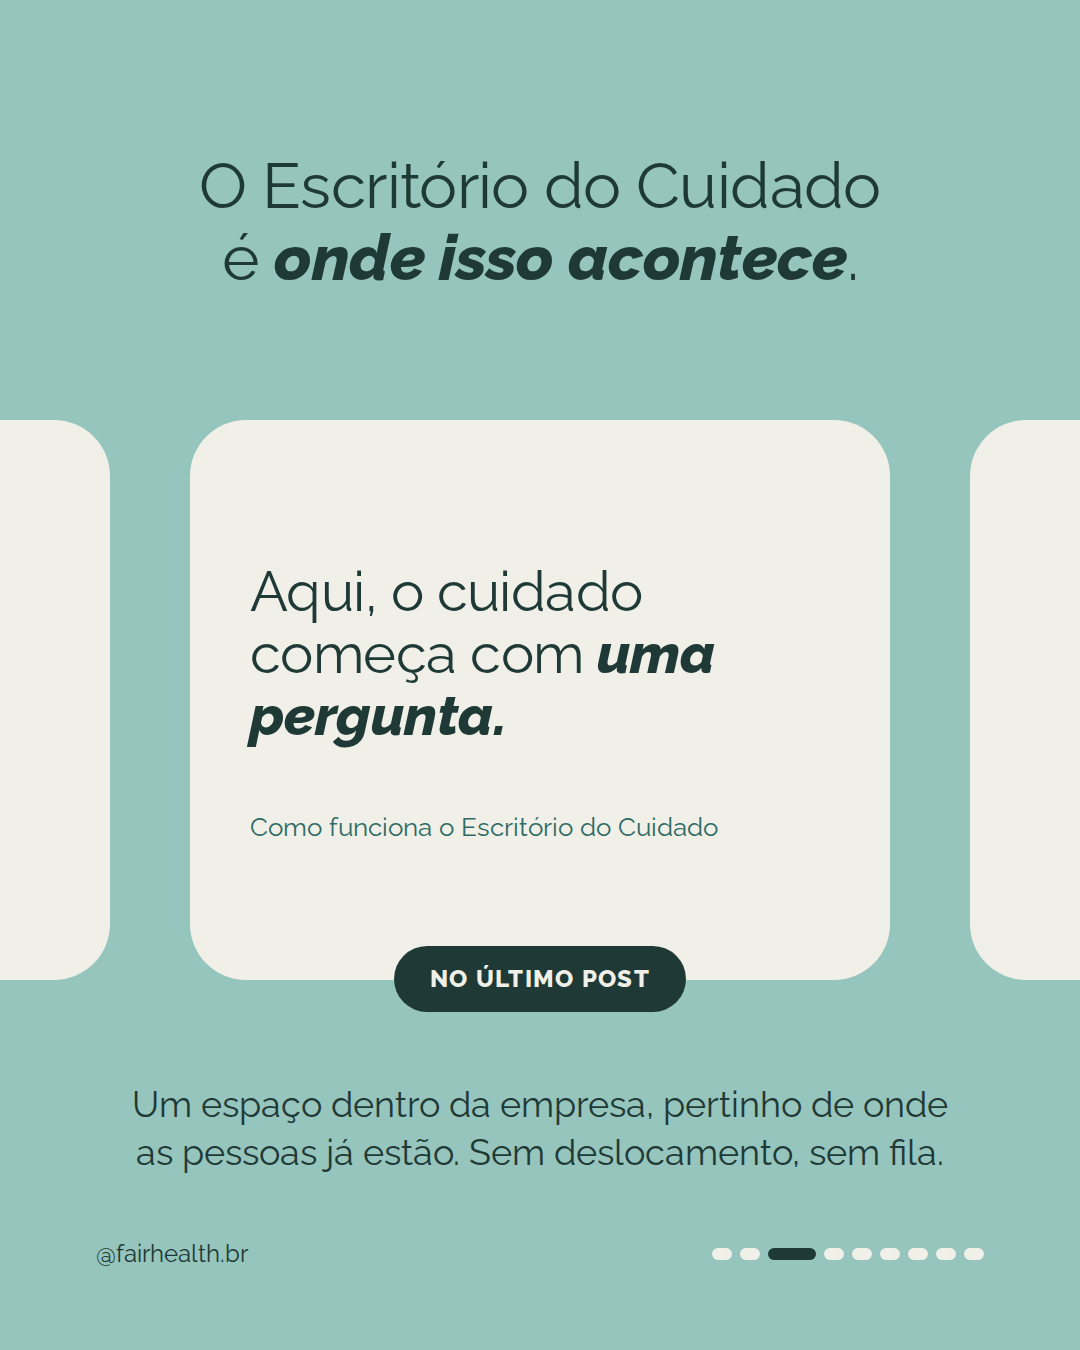
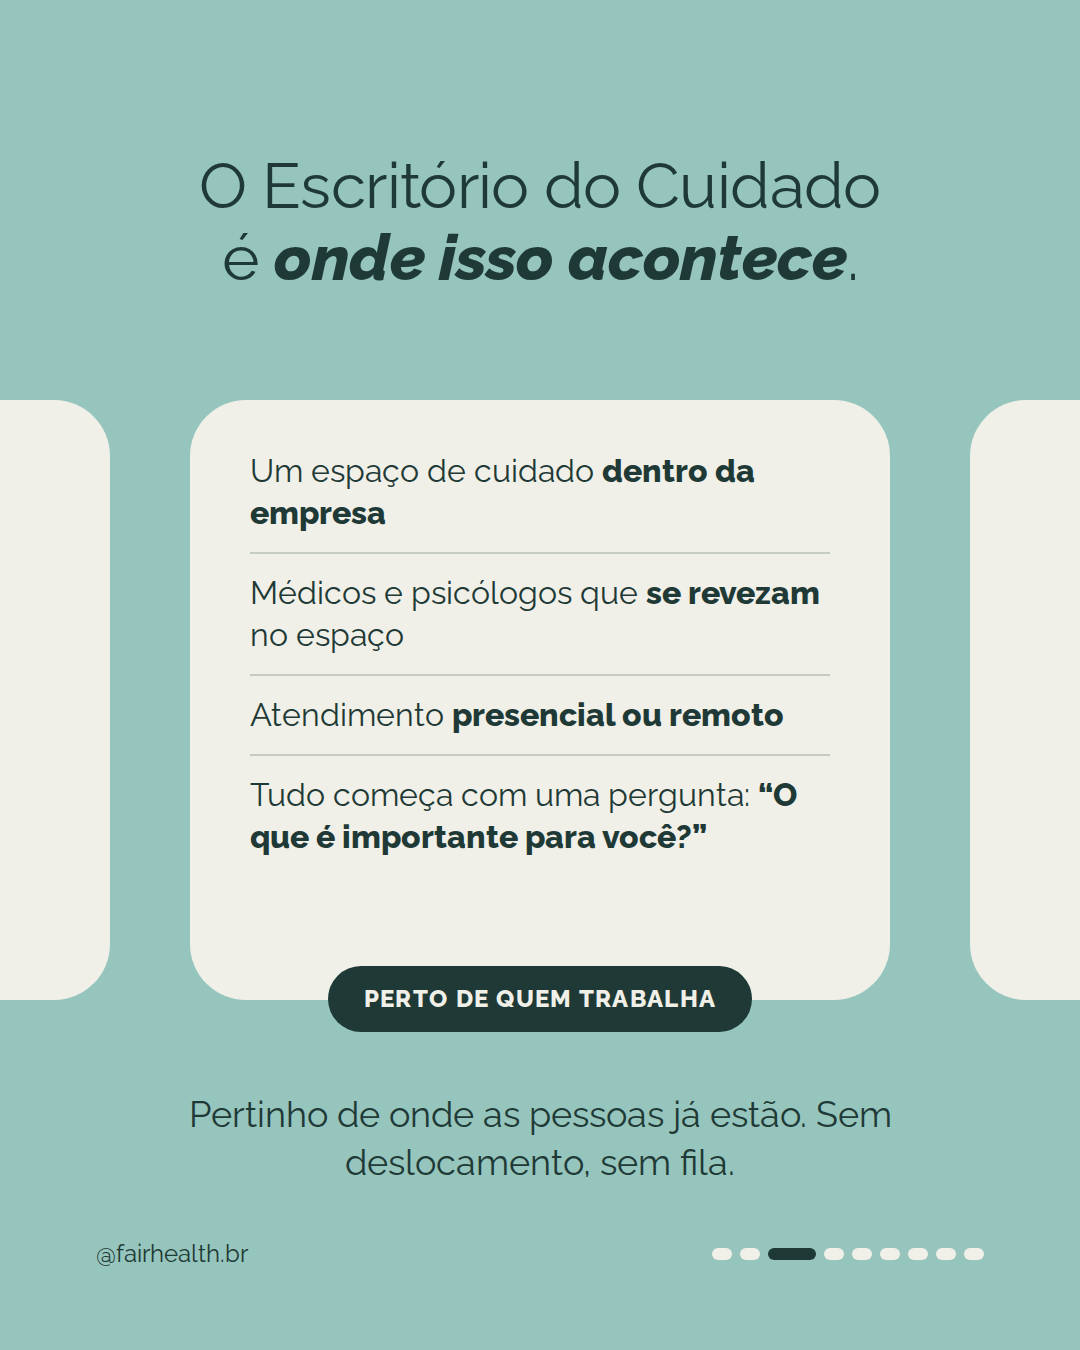
O que é a fairhealth: slide 3 explica o Escritório e slide 7 mostra o ecossistema
Pedido da Nina: o slide 3 não deve só citar o post anterior; agora explica o
Escritório do Cuidado (espaço na empresa, médicos e psicólogos que se
revezam, presencial ou remoto, a pergunta). "Medir, cuidar, conscientizar,
comprovar" são os passos das quatro empresas da fairjob, não um método da
fairhealth: o slide 7 vira "A fairhealth é o cuidar", com as quatro
empresas e a fairhealth em destaque. Legenda e voice.md corrigidos.

Claude-Session: https://claude.ai/code/session_011JWhGAkUjJPXHMtv46EUoM

diff --git a/instagram/posts/o-que-e-a-fairhealth/slides.html b/instagram/posts/o-que-e-a-fairhealth/slides.html
@@ -42,6 +42,19 @@ svg.cheia{left:0;top:0;width:1080px;height:1350px}
 .passo .n{font-size:24px;line-height:56px;font-weight:800;letter-spacing:.16em;color:var(--vlogo);grid-row:span 2}
 .passo .w{font-size:52px;line-height:56px;font-weight:800;letter-spacing:-0.01em}
 .passo .d{font-size:32px;line-height:42px;margin-top:6px}
+/* cartão do slide 3: lista curta com fios */
+.cartao p{font-size:32px;line-height:42px;padding:18px 0;border-top:2px solid rgba(31,58,54,.2)}
+.cartao p:first-child{border-top:0;padding-top:0}
+.cartao b{font-weight:800}
+/* ecossistema: quatro passos, a fairhealth em destaque */
+.eco{left:96px;width:888px;height:140px;display:flex;align-items:center;gap:28px;padding:0 32px;border-top:2px solid rgba(31,58,54,.28)}
+.eco .n{font-size:24px;line-height:32px;font-weight:800;letter-spacing:.16em;color:var(--vlogo);width:48px;flex:none}
+.eco .w{font-size:52px;line-height:56px;font-weight:800;letter-spacing:-0.01em;width:420px;flex:none}
+.eco .m{font-size:32px;line-height:40px}
+.eco.on{height:164px;background:var(--tif);border-radius:24px;border-top:0;flex-wrap:wrap;align-content:center;row-gap:4px}
+.eco.on .d{flex-basis:100%;padding-left:76px;font-size:26px;line-height:32px;color:var(--vlogo)}
+.eco.on .m{font-weight:800}
+.eco.on .n{color:var(--verde)}
 .pilula{border-radius:999px;font-weight:800;letter-spacing:.08em;text-transform:uppercase;white-space:nowrap}
 .num{font-weight:800;letter-spacing:-0.05em;line-height:.78;white-space:nowrap}
 .num .u2{letter-spacing:-0.02em;margin-left:18px}
@@ -66,16 +79,20 @@ svg.cheia{left:0;top:0;width:1080px;height:1350px}
   <div class="pag"><i></i><i class="on"></i><i></i><i></i><i></i><i></i><i></i><i></i><i></i></div>
 </section>
 
-<!-- 3 · tiffany: a ponte com o último post, em cartões que espiam nas bordas -->
+<!-- 3 · tiffany: o que é o Escritório do Cuidado, num cartão com os cartões vizinhos espiando nas bordas -->
 <section class="slide t" id="s03">
   <p class="tit" style="left:0;top:150px;width:1080px;text-align:center;font-size:64px;line-height:72px">O Escritório do Cuidado<br>é <span class="k">onde isso acontece</span>.</p>
-  <div style="left:-560px;top:420px;width:670px;height:560px;background:var(--creme);border-radius:56px"></div>
-  <div style="left:970px;top:420px;width:670px;height:560px;background:var(--creme);border-radius:56px"></div>
-  <div style="left:190px;top:420px;width:700px;height:560px;background:var(--creme);border-radius:56px"></div>
-  <p style="left:250px;top:560px;width:580px;font-size:56px;line-height:62px;letter-spacing:-0.01em">Aqui, o cuidado começa com <span class="k">uma pergunta.</span></p>
-  <p style="left:250px;top:810px;width:580px;font-size:26px;line-height:34px;color:var(--vlogo)">Como funciona o Escritório do Cuidado</p>
-  <p class="pilula" style="left:0;top:946px;width:1080px;text-align:center"><span style="display:inline-block;background:var(--verde);color:var(--creme);font-size:24px;line-height:30px;padding:18px 36px;border-radius:999px">No último post</span></p>
-  <p class="corpo" style="left:120px;top:1080px;width:840px;text-align:center">Um espaço dentro da empresa, pertinho de onde as pessoas já estão. Sem deslocamento, sem fila.</p>
+  <div style="left:-560px;top:400px;width:670px;height:600px;background:var(--creme);border-radius:56px"></div>
+  <div style="left:970px;top:400px;width:670px;height:600px;background:var(--creme);border-radius:56px"></div>
+  <div style="left:190px;top:400px;width:700px;height:600px;background:var(--creme);border-radius:56px"></div>
+  <div class="cartao" style="left:250px;top:450px;width:580px">
+    <p>Um espaço de cuidado <b>dentro da empresa</b></p>
+    <p>Médicos e psicólogos que <b>se revezam</b> no espaço</p>
+    <p>Atendimento <b>presencial ou remoto</b></p>
+    <p>Tudo começa com uma pergunta: <b>“O que é importante para você?”</b></p>
+  </div>
+  <p class="pilula" style="left:0;top:966px;width:1080px;text-align:center"><span style="display:inline-block;background:var(--verde);color:var(--creme);font-size:24px;line-height:30px;padding:18px 36px;border-radius:999px">Perto de quem trabalha</span></p>
+  <p class="corpo" style="left:120px;top:1090px;width:840px;text-align:center">Pertinho de onde as pessoas já estão. Sem deslocamento, sem fila.</p>
   <p class="handle">@fairhealth.br</p>
   <div class="pag"><i></i><i></i><i class="on"></i><i></i><i></i><i></i><i></i><i></i><i></i></div>
 </section>
@@ -124,14 +141,15 @@ svg.cheia{left:0;top:0;width:1080px;height:1350px}
   <div class="pag"><i></i><i></i><i></i><i></i><i></i><i class="on"></i><i></i><i></i><i></i></div>
 </section>
 
-<!-- 7 · creme: o método -->
+<!-- 7 · creme: o lugar da fairhealth no ecossistema fairjob (os quatro passos são as quatro empresas) -->
 <section class="slide c" id="s07">
-  <p class="rot">Como a gente trabalha</p>
-  <p class="tit" style="left:96px;top:200px;width:888px">Cuidado <span class="k">com método</span>.</p>
-  <div class="passo" style="top:370px"><span class="n">01</span><span class="w">Medir</span><span class="d">para entender de onde cada pessoa parte</span></div>
-  <div class="passo" style="top:545px"><span class="n">02</span><span class="w">Cuidar</span><span class="d">com a Medicina do Estilo de Vida</span></div>
-  <div class="passo" style="top:720px"><span class="n">03</span><span class="w">Conscientizar</span><span class="d">hábito muda quando se entende o porquê</span></div>
-  <div class="passo" style="top:895px;border-bottom:2px solid rgba(31,58,54,.28)"><span class="n">04</span><span class="w">Comprovar</span><span class="d">o RH decide com evidência, não com intenção</span></div>
+  <p class="rot">Ecossistema fairjob</p>
+  <p class="tit" style="left:96px;top:190px;width:888px">A fairhealth é o <span class="k">cuidar</span>.</p>
+  <p class="corpo" style="left:96px;top:300px;width:820px">Quatro empresas, quatro passos. Juntas, levam a empresa da intenção à evidência.</p>
+  <div class="eco" style="top:460px"><span class="n">01</span><span class="w">Medir</span><span class="m">fairdata</span></div>
+  <div class="eco on" style="top:620px"><span class="n">02</span><span class="w">Cuidar</span><span class="m">fairhealth</span><span class="d">o Escritório do Cuidado</span></div>
+  <div class="eco" style="top:800px"><span class="n">03</span><span class="w">Conscientizar</span><span class="m">fairedu</span></div>
+  <div class="eco" style="top:960px;border-bottom:2px solid rgba(31,58,54,.28)"><span class="n">04</span><span class="w">Comprovar</span><span class="m">fairtrust</span></div>
   <p class="handle">@fairhealth.br</p>
   <div class="pag"><i></i><i></i><i></i><i></i><i></i><i></i><i class="on"></i><i></i><i></i></div>
 </section>

diff --git a/instagram/posts/o-que-e-a-fairhealth/README.md b/instagram/posts/o-que-e-a-fairhealth/README.md
@@ -10,16 +10,19 @@ institucional. Público: RH e colaboradores.
 - **Visual:** v1 com o tiffany no detalhe (fundos verde, creme e tiffany alternados) e três elementos gráficos
   da aba nova do livro da marca: cartões espiando nas bordas (ponte com o post anterior), Venn com o encontro
   cheio e pessoas em pictograma.
+- **Correção de 11/10:** o slide 3 deixou de só citar o post anterior e passou a explicar o Escritório do
+  Cuidado. O slide 7 deixou de tratar "medir, cuidar, conscientizar, comprovar" como método da fairhealth:
+  são os quatro passos das quatro empresas da fairjob.
 
 | Slide | Fundo | Conteúdo |
 | --- | --- | --- |
 | 1 | verde | Capa: "O que é a fairhealth?" + ponte com o último post |
 | 2 | creme | Somos uma empresa de saúde corporativa (frase de quem somos) |
-| 3 | tiffany | O Escritório do Cuidado é onde isso acontece (cartão com a capa do post anterior) |
+| 3 | tiffany | O Escritório do Cuidado é onde isso acontece: espaço dentro da empresa, médicos e psicólogos que se revezam, presencial ou remoto, a pergunta (cartão central) |
 | 4 | verde | A gente trabalha no encontro (Venn: o que a empresa precisa × o que é importante para cada pessoa) |
 | 5 | creme | O que oferecemos para quem é cuidado |
 | 6 | tiffany | O que oferecemos para a empresa |
-| 7 | creme | Cuidado com método: medir, cuidar, conscientizar, comprovar |
+| 7 | creme | A fairhealth é o cuidar: os quatro passos do ecossistema fairjob (medir, cuidar, conscientizar, comprovar), um por empresa, com a fairhealth em destaque |
 | 8 | verde | Prova: 8 em cada 10 pessoas voltaram para mais de um atendimento |
 | 9 | creme | Logo, slogan e convite para falar pelo direct |
 
@@ -30,7 +33,7 @@ O Escritório do Cuidado você já conhece. Agora, o que é a fairhealth?
 
 No último post, mostramos como o cuidado começa: com uma conversa e uma pergunta, "O que é importante para você?". A fairhealth é quem está por trás desse espaço.
 
-Somos uma empresa de saúde corporativa, do ecossistema fairjob. Levamos médicos e psicólogos para dentro da empresa, para cuidar das pessoas antes que o adoecimento vire afastamento.
+Somos uma empresa de saúde corporativa e, no ecossistema fairjob, somos o cuidar. Levamos médicos e psicólogos para dentro da empresa, para cuidar das pessoas antes que o adoecimento vire afastamento.
 
 Para quem é cuidado, isso significa atendimento perto, sigilo e um plano que cabe na rotina real, montado nos pilares da Medicina do Estilo de Vida. Para a empresa, significa um espaço de cuidado montado ali dentro e relatórios do grupo, anonimizados, para o RH decidir com evidência.
 
@@ -59,3 +62,5 @@ reconhece chamadas em inglês, e a legenda tem uma só ("Fale com a gente pelo d
 - **NR-1:** "um aliado na prevenção dos riscos psicossociais", sem prometer conformidade.
 - **Prazo do programa:** o post não cita os 12 meses (prazo de acompanhamento pede aval).
 - **Pilares:** o post não diz quantos são, até a confirmação dos 6 pilares.
+- **[CONFIRMAR] Verbo de cada empresa no slide 7:** cuidar = fairhealth está na essência. Os outros foram
+  ligados pelo nome: medir = fairdata, conscientizar = fairedu, comprovar = fairtrust.

diff --git a/instagram/voice.md b/instagram/voice.md
@@ -47,7 +47,8 @@ português do Brasil.
   É uma voz de especialista que explica sem jargão, sem alarmismo e sem tom de
   coach.
 - **Palavras que usamos:** cuidado · Escritório do Cuidado · causa raiz ·
-  "medir, cuidar, conscientizar, comprovar" · evidência / "da intenção à
+  "medir, cuidar, conscientizar, comprovar" (os quatro passos das quatro empresas da
+  fairjob, não um método só da fairhealth; ver as decisões de 11/10) · evidência / "da intenção à
   evidência" · cuidado centrado na pessoa · menos barreira, mais adesão ·
   sinistralidade · risco psicossocial · NR-01 · Medicina do Estilo de Vida (MEV)
   · colaborador · prevenção
@@ -224,3 +225,12 @@ Estas regras valem por cima de qualquer trecho anterior deste arquivo.
 - **Medicina do Estilo de Vida: 6 pilares** (ACLM): alimentação, atividade física,
   sono, manejo do estresse, relacionamentos e evitar substâncias de risco. Sem
   espiritualidade. **[PENDENTE]** confirmar.
+
+## Decisões de 11/10: o ecossistema
+
+- **"Medir, cuidar, conscientizar, comprovar" são os quatro passos das quatro empresas da fairjob**
+  (fairdata, fairhealth, fairedu e fairtrust), não um método só da fairhealth. A fairhealth é o
+  **cuidar**. Nunca apresentar os quatro verbos como o jeito de trabalhar da fairhealth.
+- **[CONFIRMAR]** O verbo de cada empresa: cuidar = fairhealth (essência). Ligados pelo nome, ainda sem
+  confirmação: medir = fairdata, conscientizar = fairedu, comprovar = fairtrust. A `essencia.md` traz outra
+  lista ("medir, cuidar, provar, propagar"); vale a da Nina até a confirmação.
